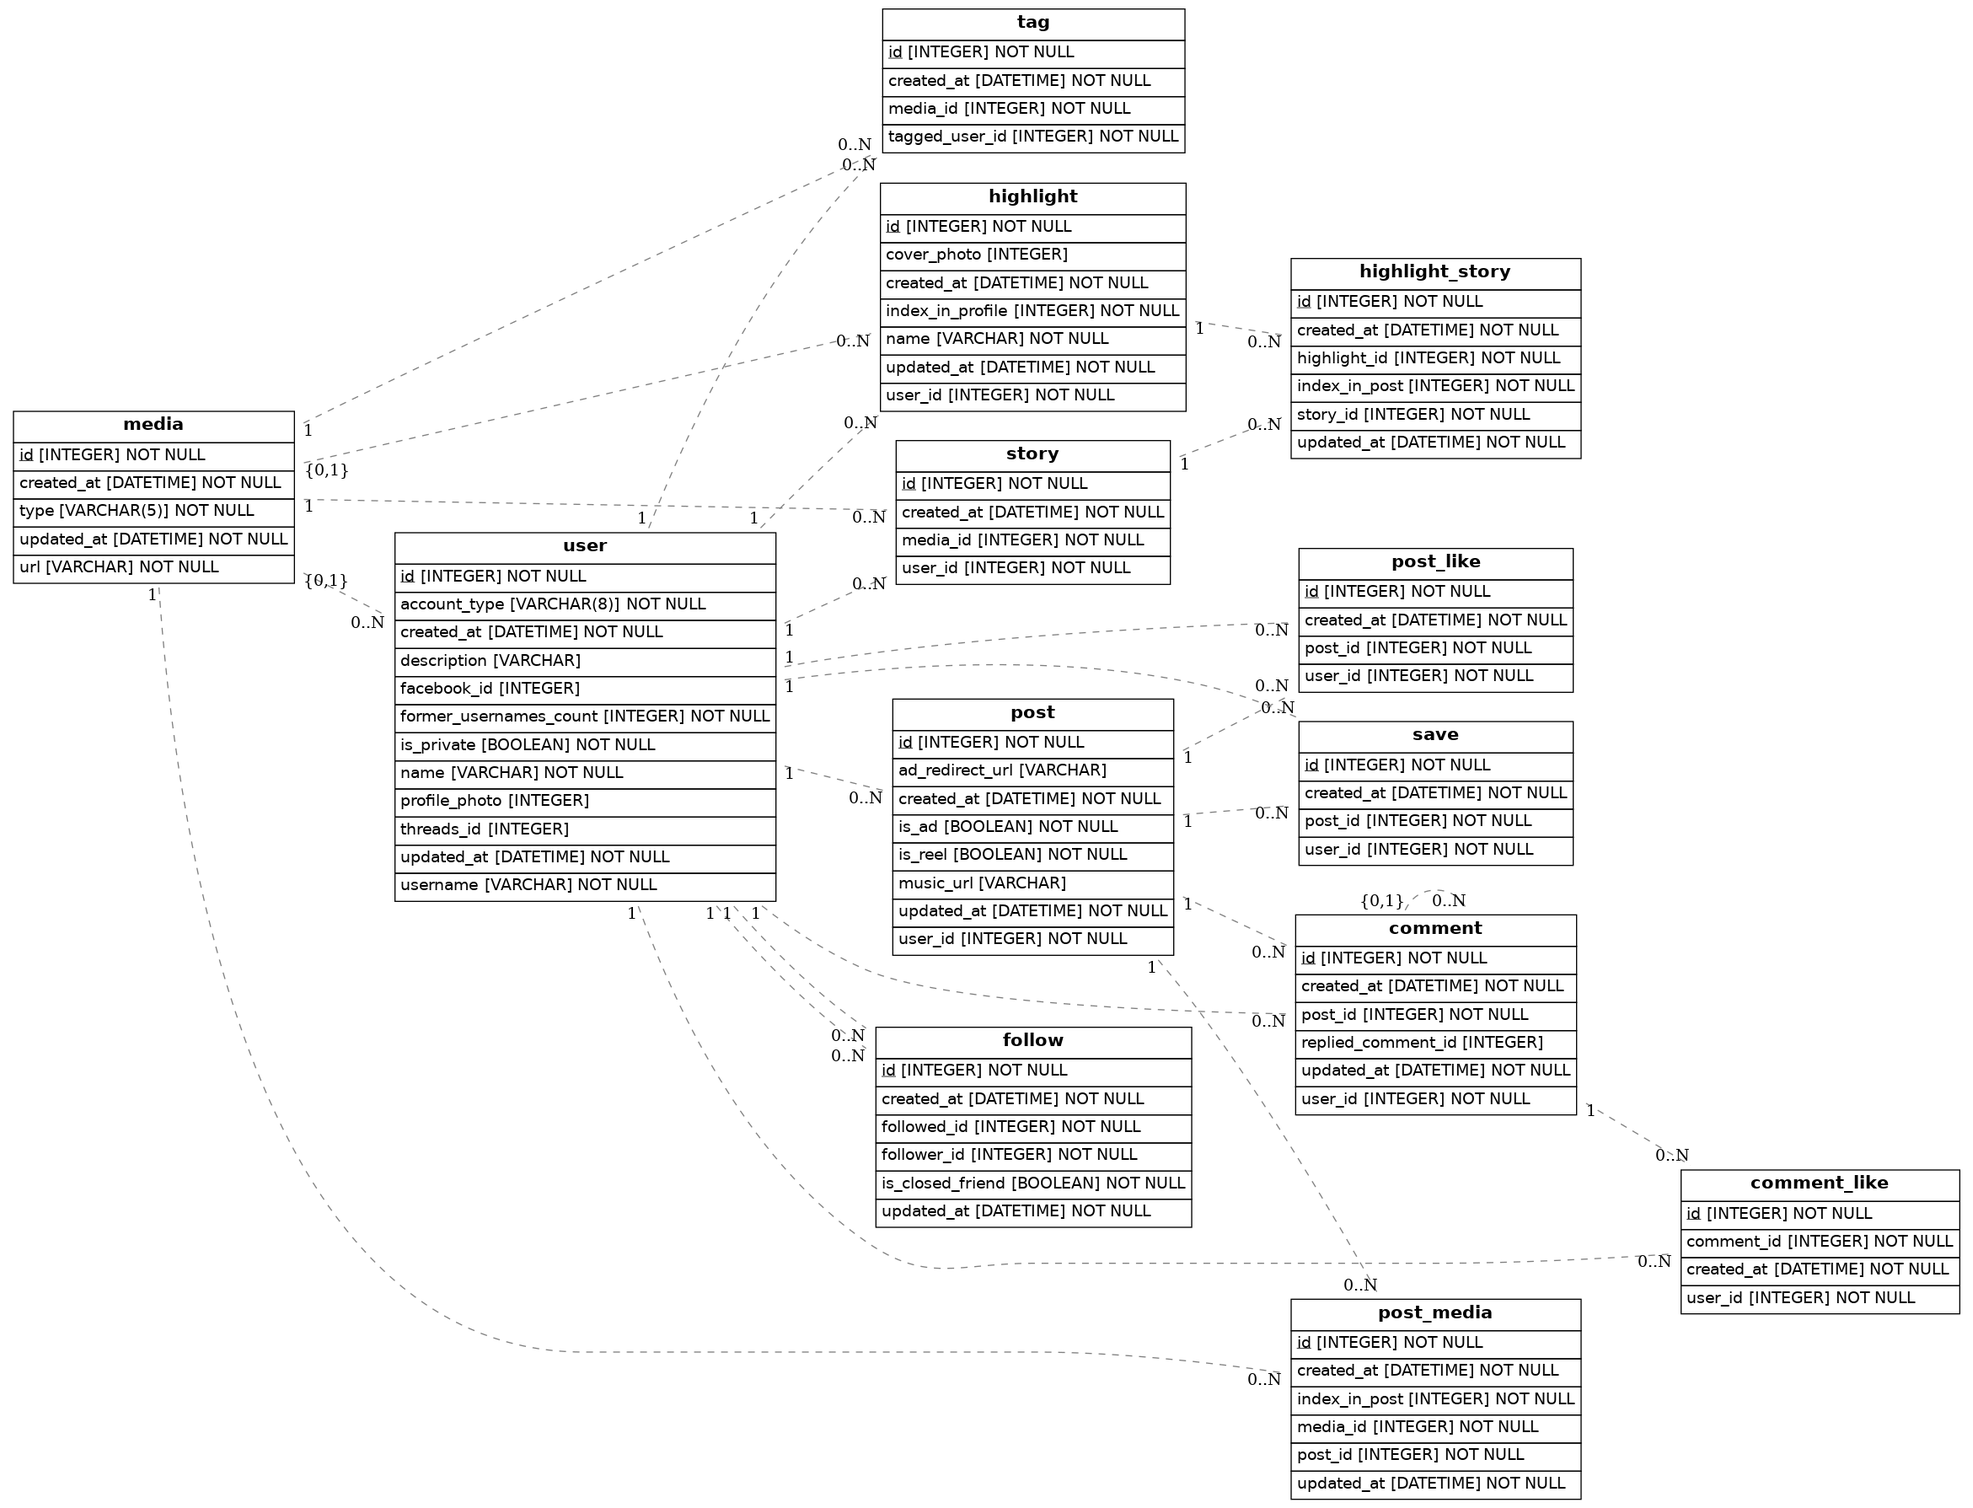
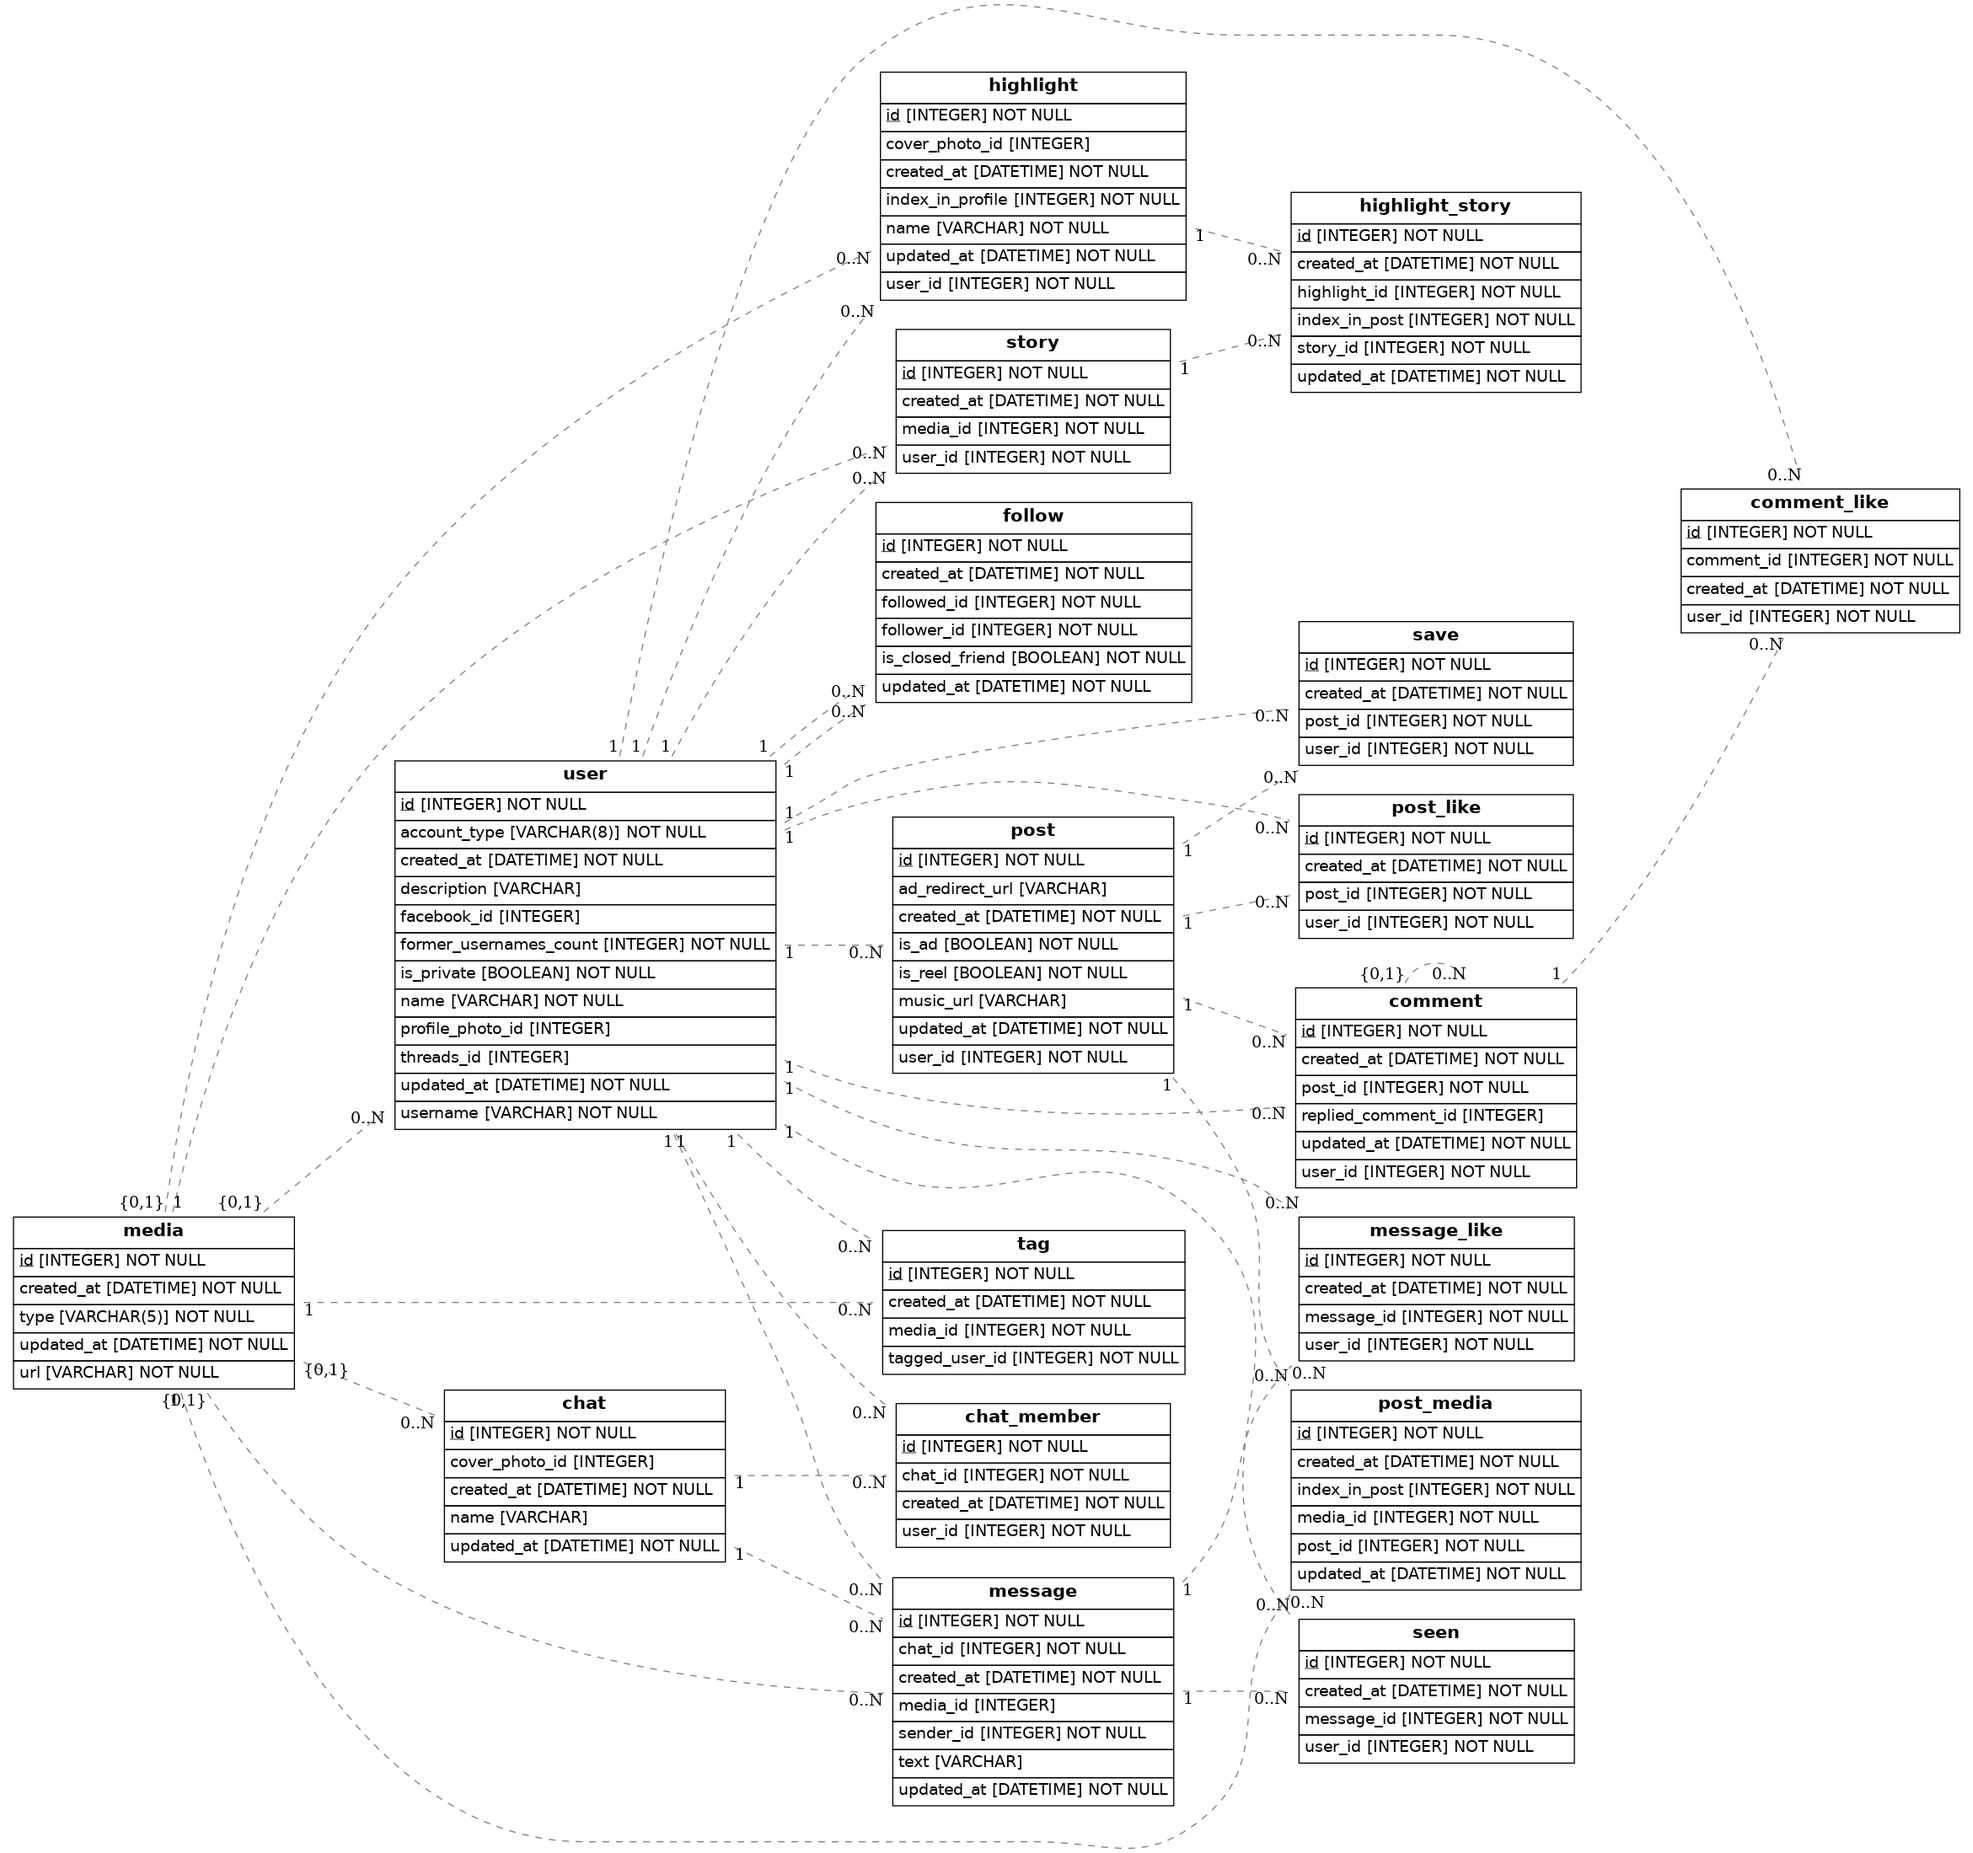
Add chat, chat member, message and seen

diff --git a/src/models.py b/src/models.py
@@ -19,7 +19,7 @@ class User(Base):
     username = Column(String, nullable=False)
     name = Column(String, nullable=False)
     description = Column(String)
-    profile_photo = Column(Integer, ForeignKey("media.id"))
+    profile_photo_id = Column(Integer, ForeignKey("media.id"))
     former_usernames_count = Column(Integer, nullable=False, default=1)
     account_type = Column(Enum(AccountType), nullable=False)
     is_private = Column(Boolean, nullable=False, default=False)
@@ -121,7 +121,7 @@ class Highlight(Base):
     user_id = Column(Integer, ForeignKey("user.id"), nullable=False)
     index_in_profile = Column(Integer, nullable=False, default=0)
     name = Column(String, nullable=False)
-    cover_photo = Column(Integer, ForeignKey("media.id"))
+    cover_photo_id = Column(Integer, ForeignKey("media.id"))
     created_at = Column(DateTime, nullable=False, default=datetime.now)
     updated_at = Column(DateTime, nullable=False, default=datetime.now, onupdate=datetime.now)
 
@@ -133,6 +133,45 @@ class HighlightStory(Base):
     index_in_post = Column(Integer, nullable=False, default=0)
     created_at = Column(DateTime, nullable=False, default=datetime.now)
     updated_at = Column(DateTime, nullable=False, default=datetime.now, onupdate=datetime.now)
+
+class Chat(Base):
+    __tablename__ = "chat"
+    id = Column(Integer, primary_key=True)
+    name = Column(String)
+    cover_photo_id = Column(Integer, ForeignKey("media.id"))
+    created_at = Column(DateTime, nullable=False, default=datetime.now)
+    updated_at = Column(DateTime, nullable=False, default=datetime.now, onupdate=datetime.now)
+
+class ChatMember(Base):
+    __tablename__ = "chat_member"
+    id = Column(Integer, primary_key=True)
+    chat_id = Column(Integer, ForeignKey("chat.id"), nullable=False)
+    user_id = Column(Integer, ForeignKey("user.id"), nullable=False)
+    created_at = Column(DateTime, nullable=False, default=datetime.now)
+
+class Message(Base):
+    __tablename__ = "message"
+    id = Column(Integer, primary_key=True)
+    sender_id = Column(Integer, ForeignKey("user.id"), nullable=False)
+    chat_id = Column(Integer, ForeignKey("chat.id"), nullable=False)
+    text = Column(String)
+    media_id = Column(Integer, ForeignKey("media.id"))
+    created_at = Column(DateTime, nullable=False, default=datetime.now)
+    updated_at = Column(DateTime, nullable=False, default=datetime.now, onupdate=datetime.now)
+
+class MessageLike(Base):
+    __tablename__ = "message_like"
+    id = Column(Integer, primary_key=True)
+    user_id = Column(Integer, ForeignKey("user.id"), nullable=False)
+    message_id = Column(Integer, ForeignKey("message.id"), nullable=False)
+    created_at = Column(DateTime, nullable=False, default=datetime.now)
+
+class Seen(Base):
+    __tablename__ = "seen"
+    id = Column(Integer, primary_key=True)
+    user_id = Column(Integer, ForeignKey("user.id"), nullable=False)
+    message_id = Column(Integer, ForeignKey("message.id"), nullable=False)
+    created_at = Column(DateTime, nullable=False, default=datetime.now)
 
 # Draw from SQLAlchemy base
 render_er(Base, 'diagram.png')
